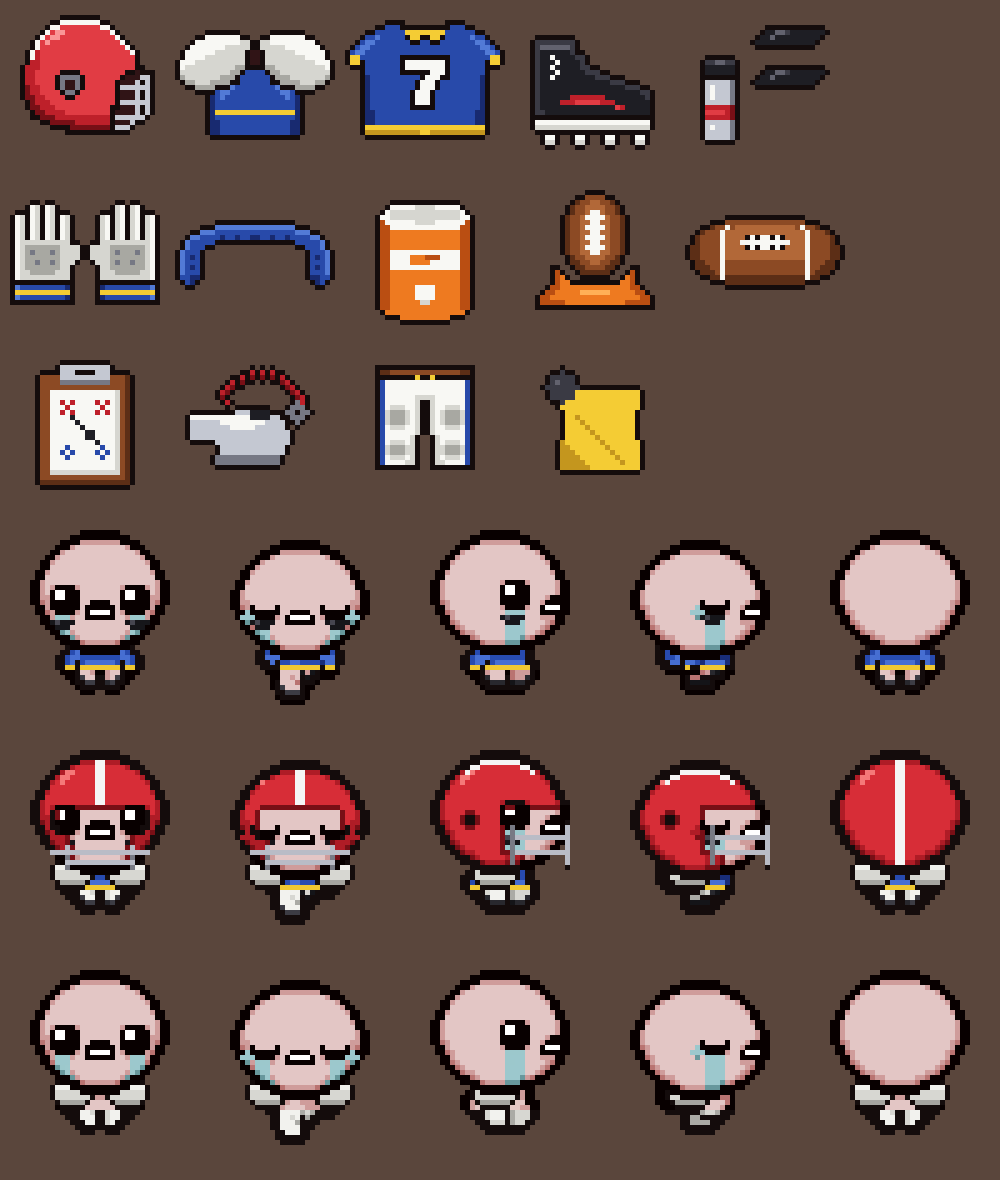
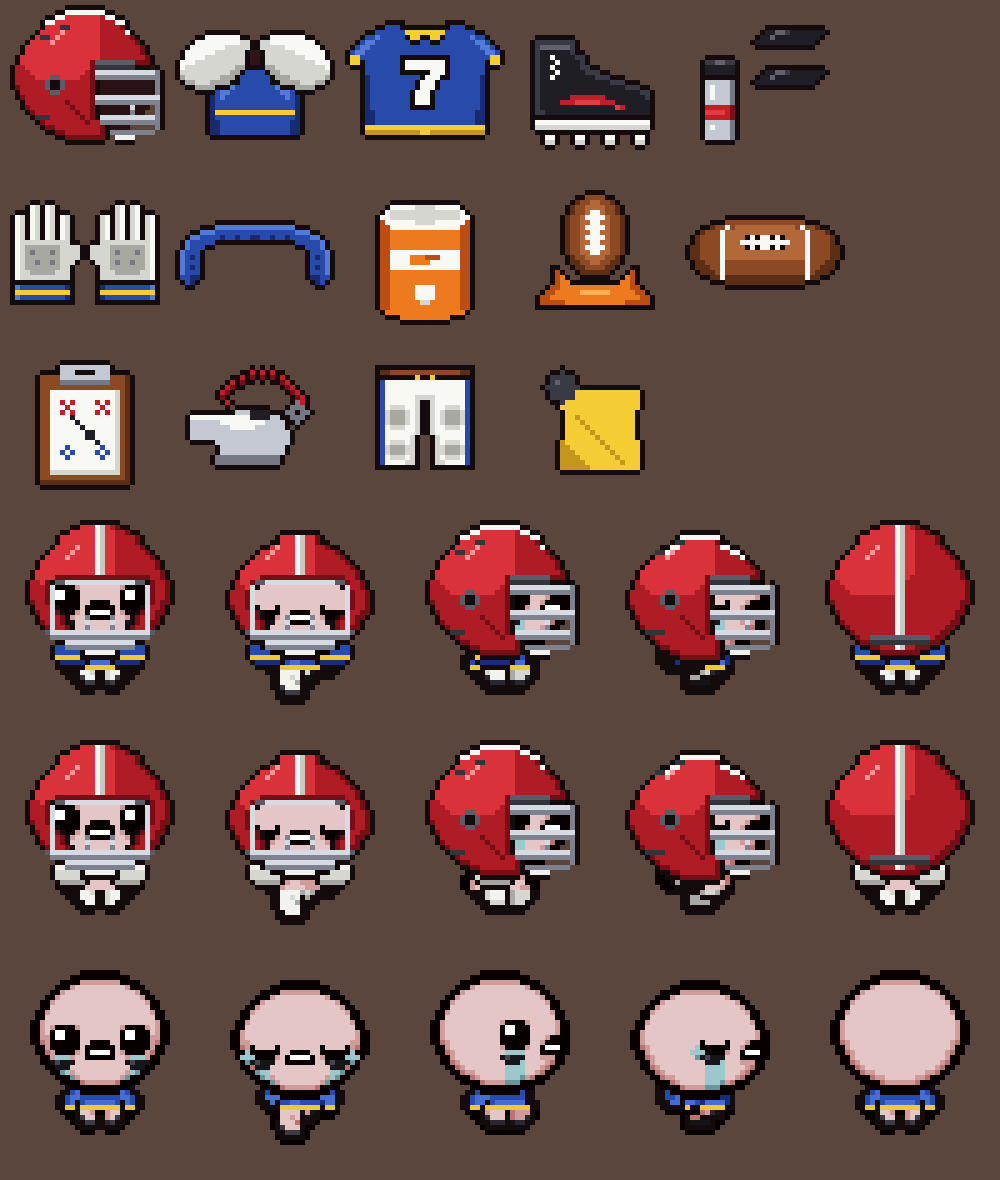
v0.2.1: modern helmet and jersey worn over the pads
- Helmet costume redrawn: glossy shell with a taller crown, center
  stripe, brow edge, jaw guards, vents, ear hole, rear bumper, and a
  proper cage facemask (top bar, shaded round bars, twin center
  verticals, side struts, chin cup).
- The collectible icon is now generated from the costume's side view so
  the two always match (make_sprites.py no longer draws the helmet).
- Jersey + Shoulder Pads: the jersey drapes over the pads (team-colored
  padded shoulders with sleeve stripes) instead of pads on top.

Claude-Session: https://claude.ai/code/session_01SDCta5dxMaVUtMhVsYXLuG

diff --git a/tools/make_costumes.py b/tools/make_costumes.py
@@ -29,11 +29,15 @@ SKIN_SHADE = {
     (227, 198, 197): 2,
 }
 
-HELMET = [(120, 15, 22, 255), (175, 28, 38, 255), (215, 45, 55, 255)]
-HELMET_SHINE = (245, 120, 120, 255)
-HELMET_STRIPE = (245, 245, 245, 255)
-FACEMASK = (185, 188, 198, 255)
-FACEMASK_DARK = (120, 122, 132, 255)
+# helmet shell tones: dark rim, mid, light, gloss highlight
+HELMET = [(118, 14, 22, 255), (176, 28, 38, 255), (218, 50, 58, 255), (250, 150, 150, 255)]
+HELMET_STRIPE = (246, 246, 242, 255)
+HELMET_STRIPE_SHADE = (200, 200, 196, 255)
+BUMPER = [(52, 52, 60, 255), (92, 92, 104, 255)]       # front/back bumper plates
+FACEMASK = (214, 218, 226, 255)                         # bar top (lit)
+FACEMASK_SHADE = (126, 130, 142, 255)                   # bar underside
+CHIN_CUP = (240, 240, 236, 255)
+INTERIOR = (40, 18, 20, 255)                            # inside of the helmet (item icon)
 EYE_BLACK = (22, 22, 26, 255)
 EYE_BLACK_SHINE = (70, 70, 80, 255)
 
@@ -85,85 +89,173 @@ def head_frames(template):
         yield i, view, template.crop((i * CELL, 0, (i + 1) * CELL, CELL))
 
 
-def paint_helmet(src, view):
-    out = Image.new("RGBA", (CELL, CELL), CLEAR)
-    s, o = src.load(), out.load()
+def silhouette(src):
+    """Head pixels and per-row extents from the template frame."""
+    s = src.load()
+    mask = {(x, y) for y in range(CELL) for x in range(CELL) if s[x, y][3]}
     rows = {}
-    for y in range(CELL):
-        xs = [x for x in range(CELL) if s[x, y][3]]
-        if xs:
-            rows[y] = (min(xs), max(xs))
+    for (x, y) in mask:
+        lo, hi = rows.get(y, (x, x))
+        rows[y] = (min(lo, x), max(hi, x))
+    return mask, rows
 
-    def shell_at(x, y):
-        if y not in rows:
+
+def shell_tone(x, y, edge, light=(10, 6)):
+    """Gloss shading: bright near the light spot, dark at the rim."""
+    if edge:
+        return HELMET[0]
+    if (x, y) in ((light[0], light[1]), (light[0] + 1, light[1] - 1), (light[0] - 1, light[1] + 1)):
+        return HELMET[3]
+    d = ((x - light[0]) ** 2 + (y - light[1]) ** 2) ** 0.5
+    if d < 9:
+        return HELMET[2]
+    return HELMET[1]
+
+
+def bar(o, points, shade_below=True):
+    """A facemask bar: lit pixels with a darker underside so it reads as round."""
+    pts = set(points)
+    for (x, y) in pts:
+        o[x, y] = FACEMASK
+    if shade_below:
+        for (x, y) in pts:
+            if (x, y + 1) not in pts and 0 <= y + 1 < CELL:
+                o[x, y + 1] = FACEMASK_SHADE
+
+
+def paint_helmet(src, view):
+    """Modern helmet: bulkier glossy shell, center stripe, bumpers, cage facemask."""
+    out = Image.new("RGBA", (CELL, CELL), CLEAR)
+    o = out.load()
+    mask, rows = silhouette(src)
+
+    def in_shell(x, y):
+        if (x, y) not in mask:
             return False
         lo, hi = rows[y]
         if view == "up":
             return True
-        if y <= 12:
+        if y <= 11:
             return True
         if view == "down":
-            return y <= 22 and (x - lo <= 4 or hi - x <= 4)
-        # right: cover the back of the head, leave the face open
-        return x <= 15 or y >= 23 and x <= 19
+            side = 3 if y <= 17 else 4          # jaw guards widen toward the chin
+            return y <= 23 and (x - lo <= side or hi - x <= side)
+        # side view: back of the head and the jaw guard, face opening in front
+        if y <= 22:
+            return x <= 17
+        return x <= 19
 
-    for y in range(CELL):
-        for x in range(CELL):
-            px = s[x, y]
-            if not px[3] or not shell_at(x, y):
-                continue
-            if is_dark(px):
-                o[x, y] = OUTLINE
-            else:
-                o[x, y] = HELMET[shade_of(px)]
+    shell = {(x, y) for (x, y) in mask if in_shell(x, y)}
+    # helmets sit taller than a bare head: add one row on top of the crown
+    grown = set(shell)
+    for (x, y) in shell:
+        if y <= 4 and (x, y - 1) not in mask and y - 1 >= 0:
+            grown.add((x, y - 1))
+    rim = outline_mask(grown, CELL, CELL)
+    for (x, y) in grown:
+        near_rim = any((x + dx, y + dy) in rim for dx, dy in ((1, 0), (0, 1), (1, 1)))
+        o[x, y] = shell_tone(x, y, near_rim and (x > 15 or y > 14))
+    for (x, y) in rim:
+        o[x, y] = OUTLINE
 
-    # edge of the shell opening gets an outline so it reads as a separate piece
-    shell = {(x, y) for y in range(CELL) for x in range(CELL) if o[x, y][3]}
-    for (x, y) in outline_mask(shell, CELL, CELL):
-        if s[x, y][3] and not is_dark(s[x, y]):
-            o[x, y] = HELMET[0]
-
-    # shine
-    for (x, y) in ((9, 6), (10, 6), (8, 7), (9, 7), (8, 8)):
-        if o[x, y][3] and not is_dark(o[x, y]):
-            o[x, y] = HELMET_SHINE
-
-    # center stripe (front-to-back)
-    if view in ("down", "up"):
-        last = 12 if view == "down" else 25
-        for y in range(3, last + 1):
-            for x in (15, 16):
-                if o[x, y][3] and not is_dark(o[x, y]):
-                    o[x, y] = HELMET_STRIPE
-    else:
-        for x in range(9, 23):
-            top = [y for y in range(CELL) if o[x, y][3] and not is_dark(o[x, y])]
-            if top:
-                o[x, top[0]] = HELMET_STRIPE
-
-    # ear hole and facemask
     if view == "down":
-        for x in range(6, 26):
-            o[x, 22] = FACEMASK
-        for x in range(9, 23):
-            o[x, 24] = FACEMASK
-        for y in range(21, 26):
-            o[9, y] = FACEMASK_DARK if y in (23, 25) else FACEMASK
-            o[22, y] = FACEMASK_DARK if y in (23, 25) else FACEMASK
+        # center stripe with a shaded edge
+        for y in range(1, 12):
+            for x, col in ((15, HELMET_STRIPE), (16, HELMET_STRIPE_SHADE)):
+                if (x, y) in grown and o[x, y] != OUTLINE:
+                    o[x, y] = col
+        # brow edge of the shell, with the mask's top bar tucked under it
+        for x in range(rows[11][0] + 4, rows[11][1] - 3):
+            o[x, 11] = HELMET[0]
+        # inner edge of the jaw guards in shadow
+        for y in range(12, 24):
+            lo, hi = rows[y]
+            side = 3 if y <= 17 else 4
+            for x in (lo + side, hi - side):
+                if (x, y) in grown:
+                    o[x, y] = HELMET[0]
+        # facemask cage
+        bar(o, [(x, 22) for x in range(6, 26)])                        # main bar under the eyes
+        bar(o, [(x, 24) for x in range(9, 23)])                        # lower bar
+        for x in (13, 18):                                              # twin center verticals
+            for y in range(19, 25):
+                o[x, y] = FACEMASK if y % 2 == 0 else FACEMASK_SHADE
+        for x in range(9, 23):                                           # top bar under the brow
+            o[x, 12] = FACEMASK
+        for y in range(13, 22):                                          # side struts down to the jaw
+            o[6, y] = FACEMASK
+            o[25, y] = FACEMASK
+        for x, y in ((7, 12), (8, 12), (23, 12), (24, 12), (5, 22), (26, 22)):  # clips
+            o[x, y] = BUMPER[1]
+        # chin cup
+        for x in range(13, 19):
+            o[x, 26] = CHIN_CUP
+        for x in range(12, 20):
+            o[x, 27] = OUTLINE
+        o[12, 26] = OUTLINE
+        o[19, 26] = OUTLINE
+
     elif view == "right":
-        for (x, y) in ((9, 15), (10, 15), (9, 16), (10, 16)):
+        # stripe along the crown
+        for x in range(8, 25):
+            col = [y for y in range(CELL) if (x, y) in grown and o[x, y] != OUTLINE]
+            if col:
+                o[x, col[0]] = HELMET_STRIPE
+        # brow bumper, vents, ear hole, jaw-guard seam
+        for x in range(18, 26):
+            if (x, 11) in grown or (x, 11) in mask:
+                o[x, 11] = BUMPER[1]
+            o[x, 12] = BUMPER[0]
+        for x, y in ((7, 6), (8, 6), (11, 4), (12, 4)):
+            o[x, y] = BUMPER[0]
+        for x, y in ((9, 15), (10, 15), (9, 16), (10, 16)):
             o[x, y] = OUTLINE
-        for (x, y) in ((8, 15), (11, 15), (8, 16), (11, 16), (9, 14), (10, 14), (9, 17), (10, 17)):
+        for x, y in ((8, 15), (11, 15), (8, 16), (11, 16), (9, 14), (10, 14), (9, 17), (10, 17)):
+            o[x, y] = BUMPER[1]
+        for x, y in ((12, 19), (13, 20), (14, 21), (15, 22), (16, 23)):
             o[x, y] = HELMET[0]
-        for x in range(18, 30):
-            o[x, 19] = FACEMASK
-            o[x, 22] = FACEMASK
-        for y in range(17, 25):
-            o[29, y] = FACEMASK
-            o[18, y] = FACEMASK_DARK
-        o[29, 16] = OUTLINE
-        o[29, 25] = OUTLINE
+        # rear bumper at the base of the shell
+        for x in range(3, 9):
+            if (x, 22) in grown:
+                o[x, 22] = BUMPER[0]
+        # facemask cage, sticking out in front of the face
+        bar(o, [(x, 13) for x in range(18, 30)])
+        bar(o, [(x, 18) for x in range(18, 31)])
+        bar(o, [(x, 22) for x in range(19, 30)])
+        for y in range(13, 25):                                         # front of the cage
+            o[30, y] = FACEMASK_SHADE if y not in (18,) else FACEMASK
+            o[31, y] = OUTLINE
+        o[30, 12] = OUTLINE
+        for y in range(18, 24):                                         # nose vertical
+            o[25, y] = FACEMASK if y % 2 == 0 else FACEMASK_SHADE
+        for x in range(21, 30):                                         # chin bar
+            o[x, 25] = FACEMASK_SHADE
+        for x in range(22, 26):                                         # chin cup
+            o[x, 26] = CHIN_CUP
+            o[x, 27] = OUTLINE
+
+    else:  # up / back of the helmet
+        for y in range(1, 26):
+            for x, col in ((15, HELMET_STRIPE), (16, HELMET_STRIPE_SHADE)):
+                if (x, y) in grown and o[x, y] != OUTLINE:
+                    o[x, y] = col
+        lo, hi = rows[23]
+        for x in range(lo + 3, hi - 2):                                 # rear bumper
+            if (x, 23) in grown:
+                o[x, 23] = BUMPER[1]
+                o[x, 24] = BUMPER[0]
     return out
+
+
+def helmet_item_icon(src):
+    """The collectible sprite: the side view with the face opening filled in."""
+    icon = paint_helmet(src, "right")
+    o = icon.load()
+    mask, _ = silhouette(src)
+    for (x, y) in mask:
+        if not o[x, y][3]:
+            o[x, y] = INTERIOR
+    return icon
 
 
 def paint_eye_black(src, view):
@@ -230,7 +322,14 @@ def paint_torso(cell, jersey, pads, side_view):
             for (x, y) in outline_mask(pad, CELL, CELL):
                 o[x, y] = OUTLINE
             for (x, y) in pad:
-                o[x, y] = PADS[2] if y <= 15 else PADS[1] if y <= 17 else PADS[0]
+                if jersey:
+                    # jersey stretched over the pads: team fabric with sleeve stripes
+                    if y == 17:
+                        o[x, y] = JERSEY_TRIM
+                    else:
+                        o[x, y] = JERSEY[2] if y <= 14 else JERSEY[1] if y <= 16 else JERSEY[0]
+                else:
+                    o[x, y] = PADS[2] if y <= 15 else PADS[1] if y <= 17 else PADS[0]
     return out
 
 
@@ -288,6 +387,10 @@ def main(template_root):
         "gridiron_helmet": (paint_helmet, "head5"),
         "gridiron_eyeblack": (paint_eye_black, "head1"),
     }
+    # the collectible sprite is the costume's side view, so they always match
+    helmet_item_icon(head.crop((2 * CELL, 0, 3 * CELL, CELL))).save(
+        ROOT / "resources/gfx/items/collectibles/football_helmet.png")
+
     for name, (painter, layer) in head_costumes.items():
         sheet = Image.new("RGBA", head.size, CLEAR)
         for i, view, frame in head_frames(head):

diff --git a/tools/make_sprites.py b/tools/make_sprites.py
@@ -50,41 +50,7 @@ PALETTE = {
 
 SPRITES = {}
 
-# --- Football Helmet (3/4 view facing right) ----------------------------------
-SPRITES["items/collectibles/football_helmet.png"] = dict(rows=[
-    "................................",
-    "................................",
-    "...........KKKKKKKK.............",
-    ".........KKWWWWWWWWKK...........",
-    "........KWWSSSSSSSSWWK..........",
-    ".......KWSHHSSSSSSSSSWK.........",
-    "......KWSHHSSSSSSSSSSSWK........",
-    ".....KWSHSSSSSSSSSSSSSSWK.......",
-    ".....KWSSSSSSSSSSSSSSSSSWK......",
-    "....KWRSSSSSSSSSSSSSSSSSSWK.....",
-    "....KWRSSSSSSSSSSSSSSSSSSSK.....",
-    "....KRRSSSSSSSSSSSSSSSSSSSK.....",
-    "...KRRRSSSSSSSSSSSSSSSSSSSKK....",
-    "...KRRSSSSSKKKKSSSSSSSSSKKDKKK..",
-    "...KRRSSSSKggggKSSSSSSSKDDDGGK..",
-    "...KRRSSSSKgDDgKSSSSSSKDDDGKGK..",
-    "...KrRRSSSKgDDgKSSSSSSKGGGGGGK..",
-    "...KrRRSSSSKggKSSSSSSSKDDDGKGK..",
-    "...KrrRRSSSSKKSSSSSSSSKDDDGKGK..",
-    "....KrRRRSSSSSSSSSSSSSKGGGGGGK..",
-    "....KrrRRRSSSSSSSSSSSKKDDDGKGK..",
-    ".....KrrRRRRSSSSSSSSSKDDDDGKGK..",
-    ".....KKrrrRRRRRRRRRRRKGGGGGGK...",
-    ".......KKrrrrrRRRRRRRKDDDGKK....",
-    ".........KKKKrrrrrrrrKGGGK......",
-    "............KKKKKKKKKKKKK.......",
-    "................................",
-    "................................",
-    "................................",
-    "................................",
-    "................................",
-    "................................",
-])
+# Football Helmet: generated by tools/make_costumes.py from the costume's side view.
 
 # --- Shoulder Pads (front view, mirrored) -------------------------------------
 SPRITES["items/collectibles/shoulder_pads.png"] = dict(mirror=True, rows=[
